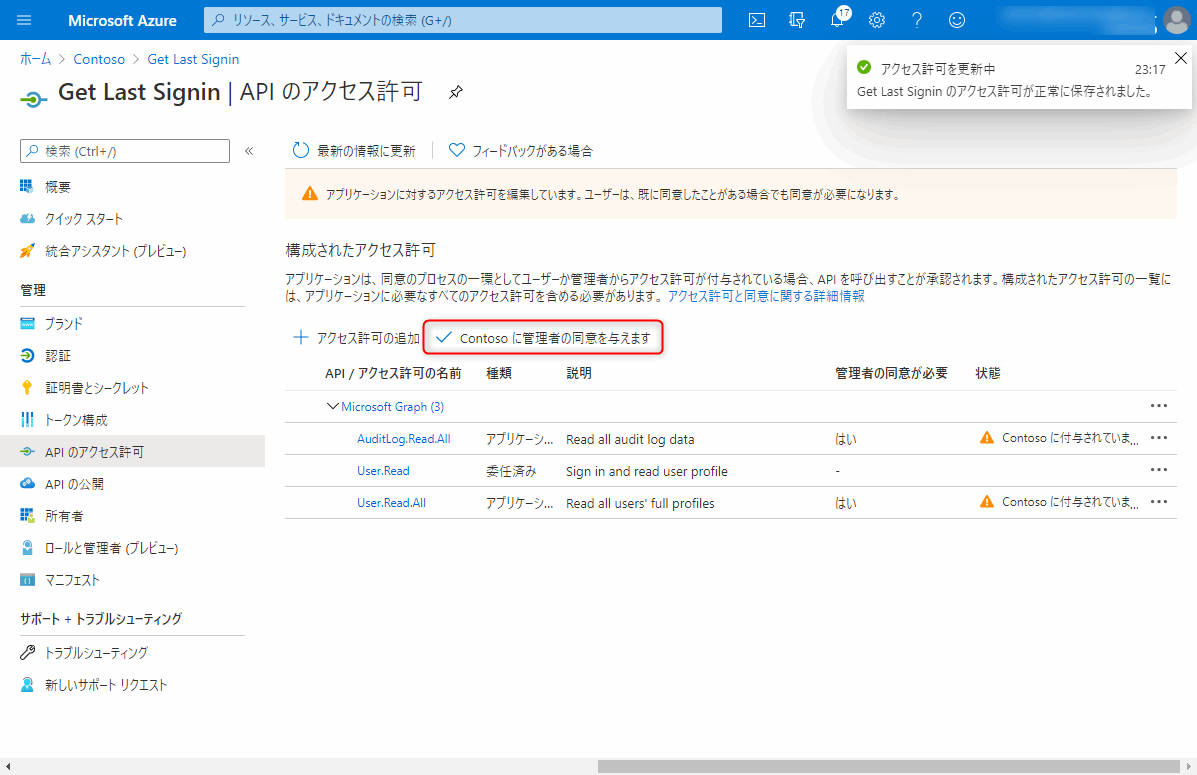
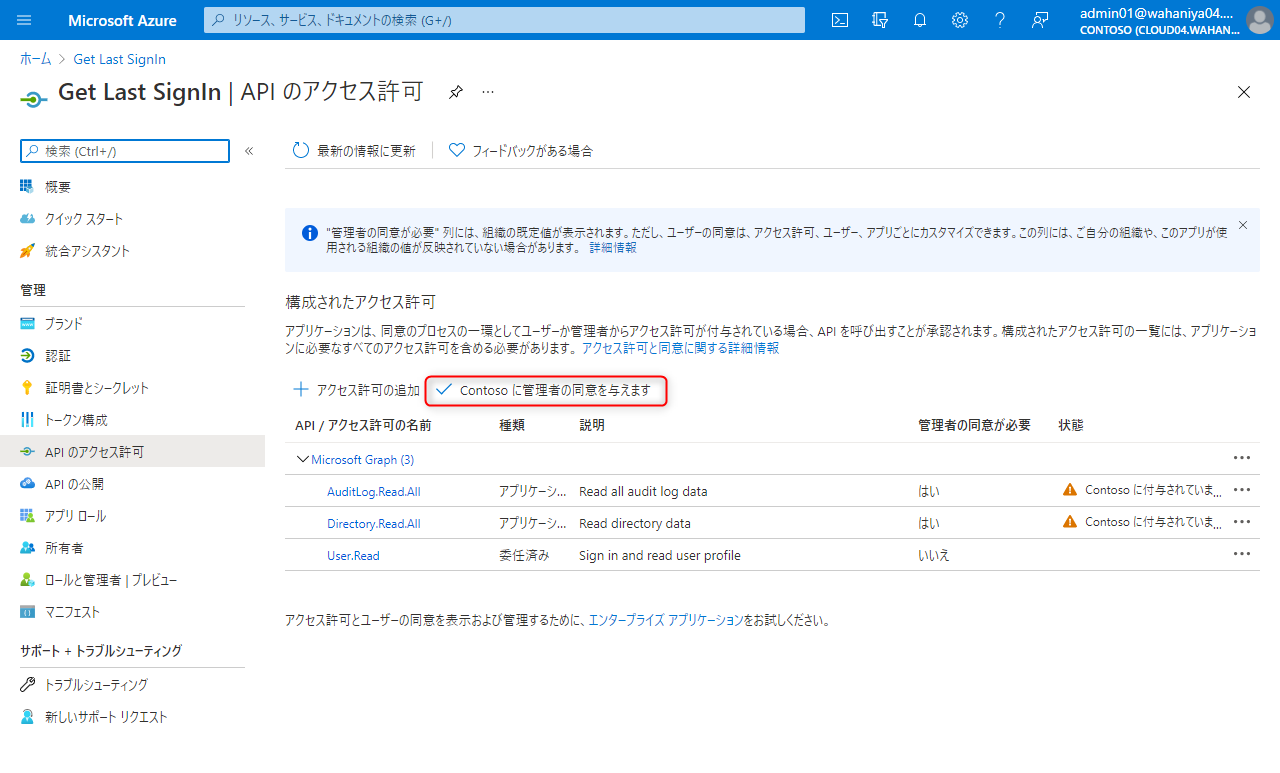
Change required permissions

diff --git a/README.md b/README.md
@@ -79,7 +79,7 @@ Azure AD 上にアプリケーションを準備します。
 
 ![](./img/05_add_permissions.png)
 
-- "User.Read.All" のチェックを有効にします。
+- "Directory.Read.All" のチェックを有効にします。
 
 ![](./img/06_add_permissions.png)
 
